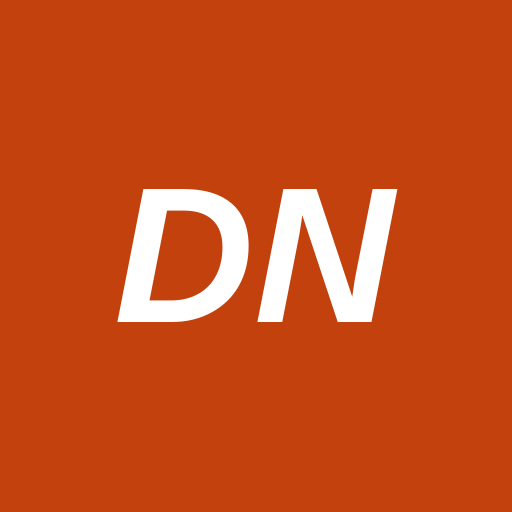
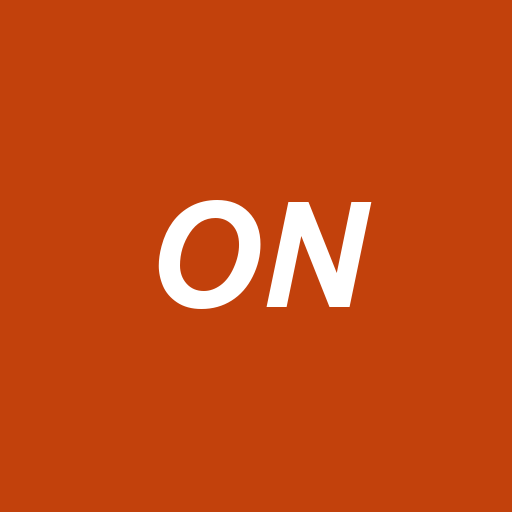
Rebrand app as One News Hub

Changed region(s): [[0.2188, 0.3438, 0.7812, 0.6562]]

diff --git a/index.html b/index.html
@@ -9,7 +9,7 @@
 <link rel="apple-touch-icon" href="icon-192.png">
 <meta name="apple-mobile-web-app-capable" content="yes">
 <meta name="mobile-web-app-capable" content="yes">
-<title>DILSHAD NEWS HUB</title>
+<title>One News Hub</title>
 <style>
 :root{--bg:#f6f5f2;--surface:#fff;--ink:#1b1f2a;--mute:#5d6577;--line:#e2e0da;--accent:#c2410c;--accent-ink:#fff;--chip:#eceae4;--ok:#15803d;--err:#b91c1c}
 :root[data-theme=dark]{--bg:#12151c;--surface:#1b2029;--ink:#eceef3;--mute:#9aa3b5;--line:#2a313d;--accent:#fb923c;--accent-ink:#1a1206;--chip:#262d39;--ok:#4ade80;--err:#f87171}
@@ -133,7 +133,7 @@ body.filters-open footer.site-footer{margin-top:auto}
 .menu-toggle[aria-expanded="true"] span:nth-child(2){opacity:0}
 .menu-toggle[aria-expanded="true"] span:last-child{transform:translateY(-7px) rotate(-45deg)}
 .menu-panel{
-  position:absolute;top:calc(100% + 10px);left:0;width:220px;padding:8px;
+  position:absolute;top:calc(100% + 10px);right:0;left:auto;width:220px;padding:8px;
   display:flex;flex-direction:column;gap:4px;background:var(--surface);
   border:1px solid var(--line);border-radius:14px;
   box-shadow:0 16px 38px rgba(0,0,0,.18);z-index:60;
@@ -286,6 +286,8 @@ body.filters-open footer.site-footer{margin-top:auto}
 <body>
 <header class="ui" id="pageTop">
   <div class="bar">
+    <button class="btn theme-icon" id="themeBtn" type="button" aria-label="Switch to dark mode" title="Switch theme">&#9790;</button>
+    <div class="brand">One <span>News</span> Hub</div>
     <div class="menu-wrap">
       <button class="btn menu-toggle" id="menuBtn" type="button" aria-label="Open navigation menu" aria-expanded="false" aria-controls="mainMenu" title="Menu">
         <span></span><span></span><span></span>
@@ -298,8 +300,6 @@ body.filters-open footer.site-footer{margin-top:auto}
         <button type="button" data-menu-action="install" id="installBtn" hidden><span class="menu-symbol">⬇</span>Install app</button>
       </nav>
     </div>
-    <div class="brand">DILSHAD <span>NEWS</span> HUB</div>
-    <button class="btn theme-icon" id="themeBtn" type="button" aria-label="Switch to dark mode" title="Switch theme">☾</button>
   </div>
   <div class="tools hide" id="tools">
     <input type="search" id="q" placeholder="Search news" aria-label="Search news">
@@ -331,11 +331,11 @@ body.filters-open footer.site-footer{margin-top:auto}
     <div class="footer-copy">
       <p class="footer-tagline">A clearer view of the stories shaping today.</p>
       <div class="footer-meta">
-        <span>© <span id="footerYear"></span> Dilshad News Hub</span>
+        <span>© <span id="footerYear"></span> One News Hub</span>
         <span>Read every story at its original source.</span>
       </div>
     </div>
-    <img class="footer-logo" src="icon-192.png" alt="Dilshad News Hub logo" width="74" height="74">
+    <img class="footer-logo" src="icon-192.png" alt="One News Hub logo" width="74" height="74">
   </div>
 </footer>
 
